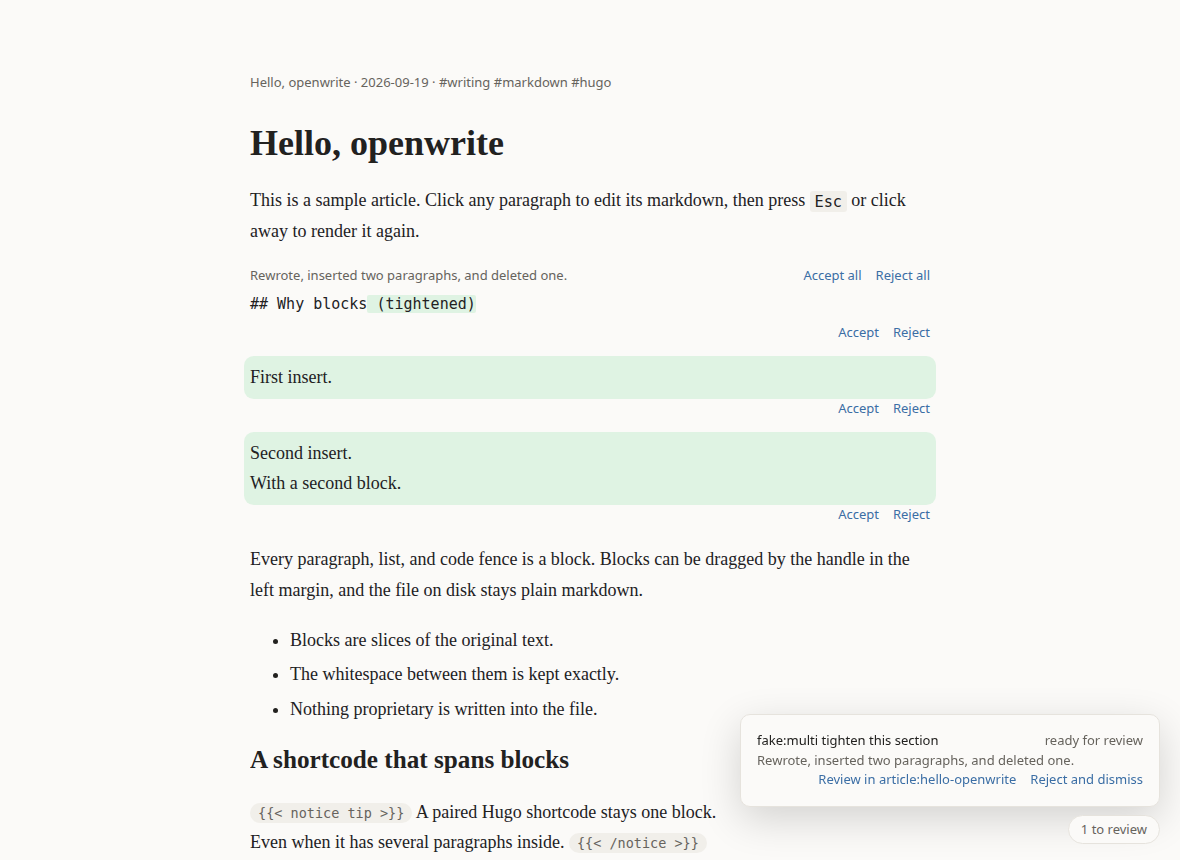
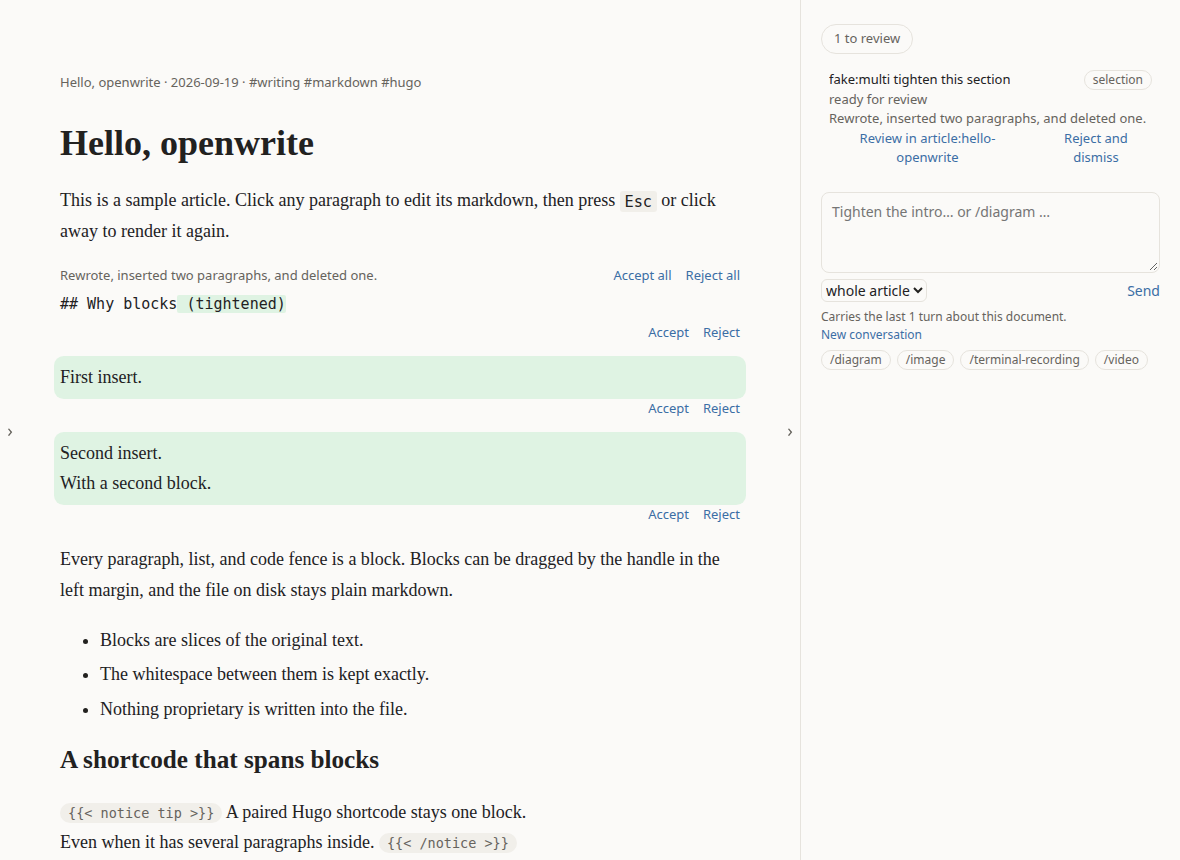
docs(ui): screenshot the shell in both themes, panels open and closed
scripts/screenshots.ts now writes eight images to docs/screenshots/, four
states in light and dark:

- editor: both panels closed, the zen page;
- review: a ghost diff with the agent panel docked beside it;
- panels: both panels docked at 1500px;
- narrow: the left drawer over the page at 900px, with the agent panel
  stacked below the article.

Each theme gets a fresh server, because the panels' state is kept in the
workspace. Each shot waits for the slide-in animation to finish.

diff --git a/scripts/screenshots.ts b/scripts/screenshots.ts
@@ -1,37 +1,21 @@
-// Light and dark screenshots for the PR: the editor at rest, and a review in progress.
-// Usage: node scripts/screenshots.ts   (starts its own server on a temp copy of the sample)
+// Light and dark screenshots for the PR, four states each:
+//   editor  — both panels closed: the zen page (1180px)
+//   review  — a job reviewed as a ghost diff, the agent panel docked beside it (1180px)
+//   panels  — both panels docked: files and actions, the agent conversation (1500px)
+//   narrow  — a narrow window: the left drawer over the page, the agent panel below the article (900px)
+// Usage: node scripts/screenshots.ts   (starts its own server per theme on a temp copy of the sample)
 import { mkdirSync } from 'node:fs'
 import path from 'node:path'
-import { chromium } from '@playwright/test'
+import { chromium, type Page } from '@playwright/test'
 import { startE2eServer } from '../e2e/start-server.ts'
 
 const root = path.resolve(import.meta.dirname, '..')
 const out = path.join(root, 'docs', 'screenshots')
 mkdirSync(out, { recursive: true })
+const mod = process.platform === 'darwin' ? 'Meta' : 'Control'
 
-const { url, child } = await startE2eServer()
-const browser = await chromium.launch()
-try {
-  for (const theme of ['light', 'dark'] as const) {
-    const page = await browser.newPage({
-      viewport: { width: 1180, height: 860 },
-      colorScheme: theme,
-    })
-    await page.goto(url)
-    await page.getByTestId('diagram').locator('svg').waitFor()
-    await page.screenshot({ path: path.join(out, `editor-${theme}.png`) })
-
-    // A job on the heading, reviewed as a ghost diff, with the tray open.
-    await page.getByRole('heading', { name: 'Why blocks' }).dblclick()
-    await page
-      .getByRole('textbox', { name: 'Instruction for the agent' })
-      .fill('fake:multi tighten this section')
-    await page.keyboard.press('Enter')
-    await page.waitForFunction(
-      async () =>
-        ((await (await fetch('/api/__fake/waiting')).json()) as { waiting: string[] }).waiting
-          .length > 0,
-    )
+async function fake(page: Page, route: 'waiting' | 'release'): Promise<void> {
+  if (route === 'release') {
     await page.evaluate(() =>
       fetch('/api/__fake/release', {
         method: 'POST',
@@ -39,14 +23,67 @@ try {
         body: '{}',
       }),
     )
-    await page.getByTestId('ghost').first().waitFor()
-    await page.getByRole('region', { name: 'Agent jobs' }).getByRole('button').first().click()
-    await page.screenshot({ path: path.join(out, `review-${theme}.png`) })
-    await page.getByTestId('ghost').first().getByRole('button', { name: 'Reject all' }).click()
-    await page.close()
+    return
+  }
+  await page.waitForFunction(
+    async () =>
+      ((await (await fetch('/api/__fake/waiting')).json()) as { waiting: string[] }).waiting
+        .length > 0,
+  )
+}
+
+const browser = await chromium.launch()
+let written = 0
+try {
+  for (const theme of ['light', 'dark'] as const) {
+    // A fresh server per theme: the panels' open/closed state is kept in the workspace.
+    const { url, child } = await startE2eServer()
+    try {
+      const page = await browser.newPage({
+        viewport: { width: 1180, height: 860 },
+        colorScheme: theme,
+      })
+      const shot = async (name: string) => {
+        // A panel slides in: never capture it halfway.
+        await page.evaluate('Promise.all(document.getAnimations().map((a) => a.finished))')
+        await page.screenshot({ path: path.join(out, `${name}-${theme}.png`) })
+        written += 1
+      }
+      await page.goto(url)
+      await page.getByTestId('diagram').locator('svg').waitFor()
+      await shot('editor')
+
+      // A job on the heading, reviewed as a ghost diff, with the agent panel open beside it.
+      await page.getByRole('heading', { name: 'Why blocks' }).dblclick()
+      await page
+        .getByRole('textbox', { name: 'Instruction for the agent' })
+        .fill('fake:multi tighten this section')
+      await page.keyboard.press('Enter')
+      await fake(page, 'waiting')
+      await fake(page, 'release')
+      await page.getByTestId('ghost').first().waitFor()
+      await page.getByRole('region', { name: 'Agent jobs' }).getByRole('button').first().click()
+      await page.getByRole('region', { name: 'Agent', exact: true }).waitFor()
+      await shot('review')
+      await page.getByTestId('ghost').first().getByRole('button', { name: 'Reject all' }).click()
+
+      // Both panels docked on a wide window.
+      await page.setViewportSize({ width: 1500, height: 900 })
+      await page.keyboard.press(`${mod}+b`)
+      await page.getByRole('navigation', { name: 'Files and actions' }).waitFor()
+      await page.mouse.move(0, 0)
+      await shot('panels')
+
+      // A narrow window: the left panel (opened by hand) is a drawer, the agent panel stacks.
+      await page.setViewportSize({ width: 900, height: 860 })
+      await page.locator('#left-panel[data-layout="overlay"]').waitFor()
+      await shot('narrow')
+      await page.close()
+    } finally {
+      child.kill('SIGTERM')
+    }
   }
 } finally {
   await browser.close()
-  child.kill('SIGTERM')
 }
-console.log(`wrote 4 screenshots to ${path.relative(root, out)}`)
+console.log(`wrote ${written} screenshots to ${path.relative(root, out)}`)
